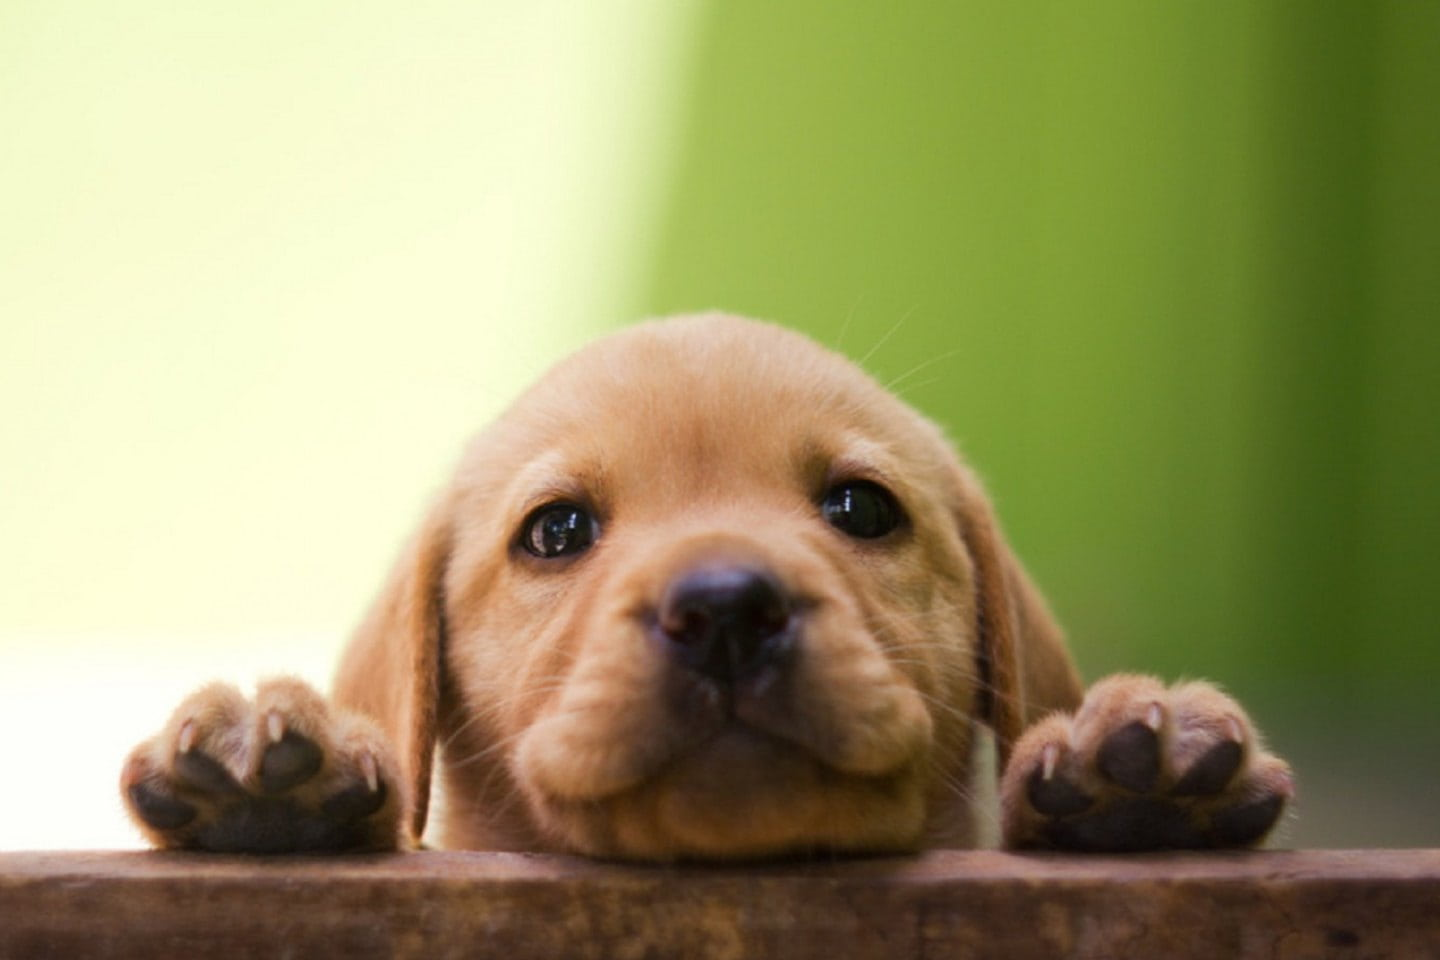
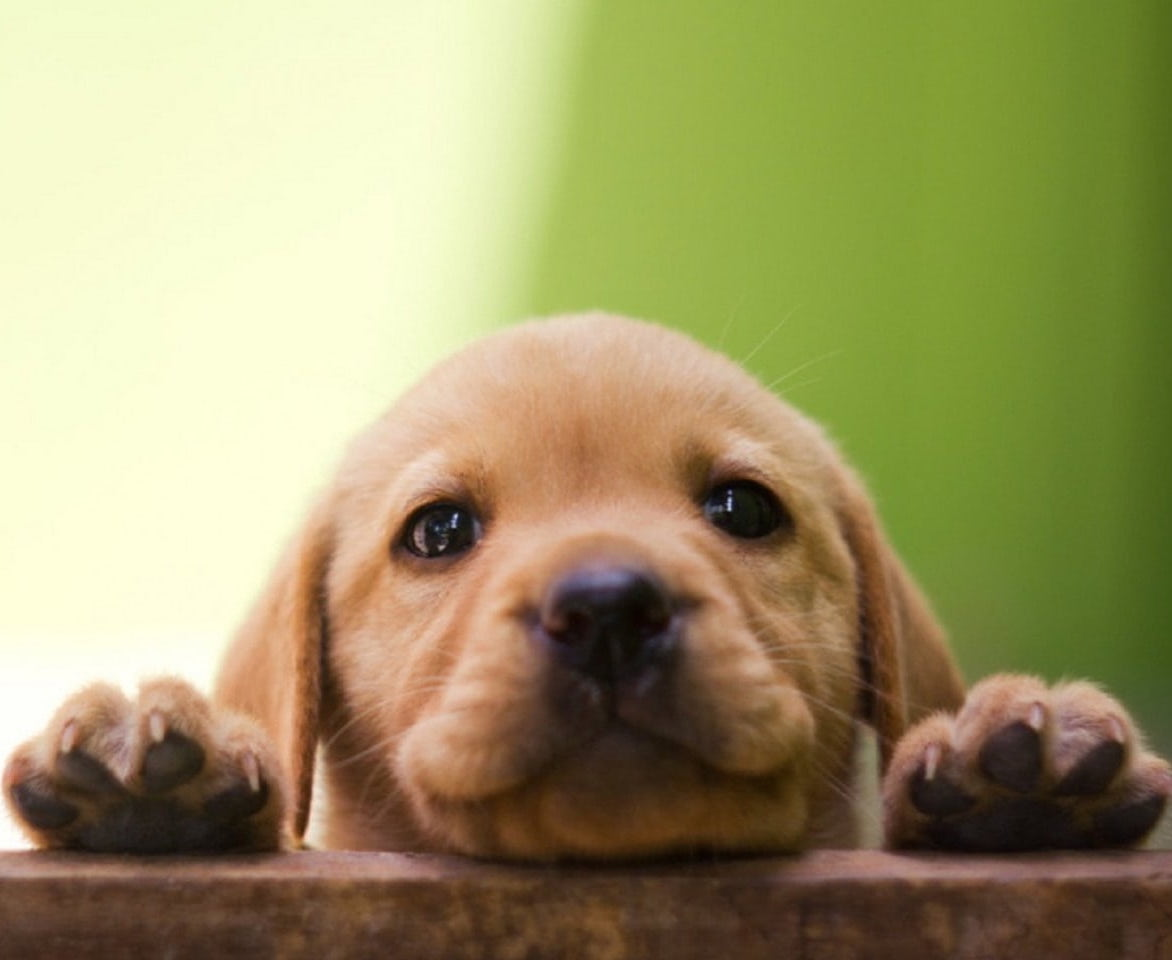
greatly improved homepage ui

diff --git a/src/app/page.tsx b/src/app/page.tsx
@@ -1,18 +1,34 @@
 import Image from "next/image";
-import dogImage from "../srcImages/dog-image.jpg";
+import dogImage from "../srcImages/golden-retriever.jpg";
+import largerDogImage from "../srcImages/dog-image-1.jpg";
+import smallDogImage from "../srcImages/dog-6289929_960_720.jpg";
 
 export default function Home() {
   return (
-    <main className="flex flex-col items-center font-Rubik">
-      <div>
-        <h1>Find Your Best Friend</h1>
-      </div>
-      <div className="z-[-1] fixed w-[97vw] h-[92vh]">
+    <main className="md:h-[88vh] flex flex-col items-center">
+      <div className="flex justify-center w-full h-full px-3 lg:pb-0 pb-3">
+        <div className="mt-[10vh] px-3 flex flex-col items-start justify-center absolute  w-[50%] text-[#038900]">
+          <h1 className="text-[64px] lg:text-[72px] font-bold w-[50%] lg:w-full">
+            Find Your
+          </h1>
+          <h1 className="text-[64px] lg:text-[72px] lg:ml-[12vh] font-bold font-Rubik w-[50%] lg:w-full ">
+            Best Friend
+          </h1>
+          <div className="items-center w-full text-center mt-5  ">
+            <div>
+              <button
+                className=" w-[50%] lg:w-[25%] backdrop-blur-md  bg-[#36965C]/30 p-4 
+              rounded-xl text-[#7AE868] text-lg font-bold font-Rubik hover:text-[#174b0f] hover:bg-[#038900]/30"
+              >
+                {`Let's Play Fetch!`}
+              </button>
+            </div>
+          </div>
+        </div>
         <Image
-          fill={true}
           src={dogImage}
           alt=""
-          className="w-full h-full rounded-md"
+          className="z-1 object-center w-full h-full rounded-md"
         ></Image>
       </div>
     </main>

diff --git a/src/components/myHeader.tsx b/src/components/myHeader.tsx
@@ -1,12 +1,11 @@
 const MyHeader = () => {
   return (
-    <div className="w-[99vw] h-full flex flex-auto flex-row items-center justify-center px-2 py-2">
-      <div className="grow">
+    <div className="w-full flex flex-auto flex-row items-center justify-center px-10 py-2 border border-b-black">
+      <div className="grow text-[48px] text-[#2f922e] font-Rubik font-semibold">
         <h1>Fetch</h1>
       </div>
-
-      <div>
-        <h1>Login</h1>
+      <div className="bg-[#4d854c] px-8 py-2 rounded-md opacity-70 hover:opacity-95">
+        <h1 className="text-lg font-Rubik font-semibold">Login</h1>
       </div>
     </div>
   );

diff --git a/src/app/layout.tsx b/src/app/layout.tsx
@@ -16,8 +16,10 @@ export default function RootLayout({
 }) {
   return (
     <html lang="en">
-      <body className="flex flex-col bg-[#E0E1BC] w-full h-full">
-        <MyHeader></MyHeader>
+      <body className="min-h-screen flex flex-col bg-[#E0E1BC] gap-2 ">
+        <div>
+          <MyHeader></MyHeader>
+        </div>
         <div>{children}</div>
       </body>
     </html>
